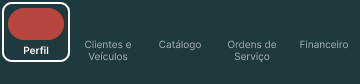
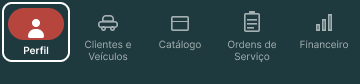
docs(f41): registrar recaptura dos frames, tabela de pares e corrigir icones da tab bar no figma
Frames 39:31 e 39:58 tinham os icones fora do frame (x negativo); corrigidos so no Figma. Divergencias novas (L-12 a L-16, B-01, D-04, F-01, P-09, P-10, T-08), contraste e decisoes 8 a 13 em F41-conferencia-paridade.md secao 12. README sem mudanca.

diff --git a/docs/design/F41-conferencia-paridade.md b/docs/design/F41-conferencia-paridade.md
@@ -1,6 +1,6 @@
 # F41 · Conferência de paridade Figma × código — Login, Perfil, diálogo de saída e tab bar
 
-Autor: ESQUADRO · Data: 2026-11-13 · Branch: `feat/f40-componentizacao-mobile` · Estado: **etapa 1 de 3 concluída; conferência incompleta (lado app sem capturas)**
+Autor: ESQUADRO · Data: 2026-11-13 · Branch: `feat/f40-componentizacao-mobile` · Estado: **etapa 2 de 4 concluída (seção 12); feature não fechada: decisões da pessoa e divergências reais de código em aberto. Atenção: a seção 12.5 corrige afirmações das seções 8 e 11.6 sobre variáveis do Figma.**
 
 ## 1. O que foi lido e o que não foi
 
@@ -240,3 +240,107 @@ Mesma fórmula da seção 5, sobre os hex dos tokens: pílula do selo (branco/pe
 ### 11.9 README
 
 README sem mudança: nenhuma instalação, comando, variável, porta ou funcionalidade mudou; só aparência de tela, testes e documentação.
+
+## 12. Rodada do ESQUADRO (2026-11-13): recaptura no Figma e tabela de pares contra as capturas de `fbfca93`
+
+Autor: ESQUADRO. Estado: **conferência feita nos estados que existem; feature NÃO fechada** (decisões da pessoa, estados sem captura e divergências reais de código em aberto).
+
+### 12.1 Acesso ao Figma (US-PAR-11)
+
+`mcp__figma-remote__whoami` respondeu: handle "Leticia Moraes", plano "Time Pessoal" (`team::1274094162661077353`). `create_session` no arquivo `DLqbSzzKRxiN2eyvXG73Lr` devolveu sessão. Sem bloqueio nesta sessão (a rodada do ORLA tinha sido negada; não é mais o caso).
+
+Recapturei os 12 frames por `get_screenshot` e comparei com `docs/design/f41-capturas/figma-*.png`: **os 12 têm o mesmo tamanho em bytes** e o hash do primeiro é idêntico, ou seja, os frames não mudaram desde a leitura anterior. Depois disso troquei só duas capturas, `figma-tabbar-padrao-39-31.png` e `figma-tabbar-foco-39-58.png`, porque corrigi os frames (12.4).
+
+### 12.2 Como medi (e o limite da medição)
+
+Não há Pillow nem ImageMagick no ambiente. Escrevi um leitor de PNG mínimo (`zlib`, sem biblioteca externa) em Python, **fora do repositório** (scratchpad), que lista as transições de cor ao longo de uma coluna ou linha. Medi o Figma a 360 de largura e o app a 402 pt de largura (1x). Margem: ±1 pt. As medidas de altura do app **incluem a área da barra de status** (plataforma), então só comparo distâncias entre elementos de dentro da tela. Não há diff automático nem montagem lado a lado em um arquivo: a comparação de cada par foi feita abrindo as duas imagens.
+
+### 12.3 Pares e estados (US-PAR-01, 02, 03)
+
+| Tela / estado | Frame | Captura do app | Situação |
+|---|---|---|---|
+| Login vazio | `29:2` | `app-login-vazio.png` (rota real) | Par feito |
+| Login carregando | `29:20` | `app-login-carregando.png` (rota temporária, só aparência) | Par feito; frame inconsistente (L-16) |
+| Login credencial inválida + campos vazios | `29:56` | `app-login-erro-validacao.png` (temporária) | Par feito. Não existe frame só de credencial inválida |
+| Login falha de conexão | `29:35` | `app-login-erro-rede.png` (temporária) | Par feito |
+| Login preenchido (foco no Entrar) | `29:79` | `app-login-preenchido.png` (temporária) | Par feito **sem o anel de foco** (não dá para forçar foco de fora) |
+| Perfil carregando | `33:2` | nenhuma | **Real**: estado não existe no código (P-07) |
+| Perfil erro | `33:14` | nenhuma | **Real**: estado não existe no código (P-08) |
+| Perfil preenchido (foco no Sair) | `33:33` | `app-perfil-preenchido.png` (temporária) | Par feito **sem foco**; o app mostra a tab bar, o frame não (P-10) |
+| Diálogo de saída | `33:49` | `app-perfil-confirmar-saida.png` (temporária) | Par feito |
+| Tab bar selecionado | `39:3` | faixa inferior de `app-perfil-preenchido.png` | Par feito |
+| Tab bar padrão | `39:31` | nenhuma | "Não se aplica na Sprint 01" **se a decisão 4 for aceita**; senão, real (T-06) |
+| Tab bar foco | `39:58` | nenhuma | **Sem captura**: foco só testado em componente |
+
+Tab bar: nos dois lados a ordem é Perfil, Clientes e Veículos, Catálogo, Ordens de Serviço, Financeiro, e os quatro últimos aparecem esmaecidos, com ícone e rótulo. Verificado nas imagens.
+
+### 12.4 Defeitos do próprio Figma achados nesta rodada
+
+| ID | Defeito | Ação |
+|---|---|---|
+| **T-09** | Em `39:31` e `39:58` os ícones dos cinco itens estavam com `x` negativo (`-392`, `-812` etc.): coordenada absoluta da página em vez da relativa ao frame. A captura mostrava a tab bar **sem nenhum ícone**. | **Corrigido por mim, só no Figma** (`use_figma`): somei o `x` do frame aos 10 nós (`39:34`, `39:40`, `39:44`, `39:51`, `39:56`, `39:62`, `39:69`, `39:73`, `39:80`, `39:85`). Agora ficam em x = 28, 98, 171, 244, 316, iguais a `39:3`. Conferido por `get_screenshot` e capturas trocadas. |
+| L-16 | `29:20` (carregando) tem "Senha", campo e botão **14 px mais abaixo** que `29:79` (rótulo y=238 contra 224; botão y=330 contra 316; confirmei no pixel). O formulário "pularia" ao entrar em carregando. | **Não alterei** (frame aprovado). Decisão 12. O código já segue `29:79`. |
+| P-09 | O divisor `33:42` é `#000000` (medi o pixel), reaproveita o mesmo SVG das linhas de legenda (`5d1a6.svg`) e **não está ligado a nenhuma variável**. O código usa petro. | Decisão 9. |
+| T-08 | Rótulo "Perfil" fica em y=44 no selecionado (`39:8`) e em y=38 no padrão (`39:35`); os outros quatro ficam em y=38. O código mantém todos alinhados. | Decisão 13. |
+
+### 12.5 Correção de afirmações anteriores (verificado hoje)
+
+1. **A coleção `28:3` não tem só cores.** `use_figma` (leitura) listou, além das 24 cores, as variáveis: cores `color/surface/errorTint` e `color/focus/ring-on-brand`; `font/size/{header,subtitle,labelSmall,field,heading,micro,tab}`; `font/weight/{header,subtitle,labelSmall,field,heading,micro,tab,tabSelected}`; `border/width/{field,emphasis}`; `space/{field,card}`; `size/tab/{itemHeight,pillWidth,pillHeight}`; `size/avatar`; `size/icon/action`. Os valores batem com `tokens.ts` (20, 13, 13, 15, 17, 11, 10; 1,25 e 1,5; 6 e 20; 64, 56, 32, 64, 22). **Não sei quem as criou nem quando**: os documentos da F40, da F41 (§8, §11.6) e do BUSSOLA diziam que não existiam. A premissa 3 está cumprida para esses tokens.
+2. **Faltam no Figma duas variáveis de cor que existem em `tokens.ts`:** `color/text/placeholder` e `color/border/divider`. Não as criei: o próprio Figma usa `text/secondary` no placeholder e `#000000` sem variável no divisor (decisões 8 e 9). Criar agora fixaria um valor que a decisão pode inverter.
+3. **Divisor do Perfil (`33:42`)**: a cor que o ORLA pediu para confirmar é `#000000`. O código usa petro (`border.divider`).
+4. **Avatar**: preenchimento `#1E3A3F` (petro), iniciais brancas. Igual ao código.
+5. **Botão Fechar (X)**: traço `#334155` (slate-700), 10,35:1 sobre branco.
+
+### 12.6 Divergências novas (somam-se às da seção 4)
+
+Padrão da premissa 1: **o código se ajusta ao Figma**. As marcadas "default" não precisam de decisão; o ORLA corrige.
+
+| ID | Real? | Figma | Código (medido ou lido) | Caminho |
+|---|---|---|---|---|
+| L-12 | Real | Placeholder em `text/secondary` slate-700, 15 (`29:8`, `29:11`): fica tão escuro quanto o valor | `text.placeholder` slate-500 (`tokens.ts:37`, `text-field.tsx:72`) | **Decisão 8** |
+| L-13 | Real | Valor digitado em `text/secondary` slate-700 (`29:85`, `29:88`) | `color.text.primary` petro (`text-field.tsx:128`) | default |
+| L-14 | Real | Campo com 48 de altura externa (`29:7`, `29:84`) | `minHeight` 48 + borda 1,25 dos dois lados = ~50 (medi 50 no app) | default |
+| B-01 | Real | Botão de página (Entrar, Sair) **52** de altura (`29:16`, `33:43`); botão de diálogo e popup **44** (`33:65`, `33:67`) | `minHeight` 48 em todos (`button.tsx:92`; medi 48 no app) | página: default. Diálogo 44: **decisão 10** |
+| L-15 | Real | Em carregando, o campo desabilitado **não tem olho** (`29:20`) | O olho continua (`app-login-carregando.png`) | default |
+| D-04 | Real | Diálogo e popup com 296 de largura (`33:62`; margem 32) | `dialogMaxWidth` 320 (`tokens.ts:142`; medi 320 no app) | default |
+| F-01 | Real, **sem captura** | Anel de foco: petro a 4–6 pt do controle, halo branco a 1–3, raio externo 14 (`29:95`, `29:96`) | Petro a 2–4 pt, halo a 0–2, raio 12 (`tokens.ts:109-116`) | default; confirmar em aparelho |
+| P-10 | Real (lacuna do Figma) | Nenhum frame mostra o Perfil **com** a tab bar | O app mostra o Perfil sobre a tab bar (F33) | **Decisão 11** |
+| L-11 (resto) | A confirmar | Do fim da faixa ao topo do primeiro campo: 50 (120→170) | 45 (137→182); a faixa do app inclui a área da barra de status | ORLA mede sem a área de status |
+
+Posições que **batem** (medidas): entre campo de e-mail e rótulo de senha (26 nos dois lados), campo de senha ao botão (24 nos dois lados), margens laterais de 16, cores de fundo da faixa, do botão e da borda do campo.
+
+### 12.7 Contraste dos pares novos (cálculo: mesma fórmula da seção 5, sobre os hex lidos)
+
+| Par | Razão | Mínimo | Resultado |
+|---|---|---|---|
+| slate-700 sobre branco (placeholder do Figma, valor do Figma, traço do X) | 10,35:1 | 4,5 / 3 | passa |
+| slate-500 sobre branco (placeholder do código) | 4,76:1 | 4,5 | passa, folga pequena |
+| petro sobre branco (valor no código) | 12,12:1 | 4,5 | passa |
+| iniciais brancas sobre avatar petro | 12,12:1 | 4,5 | passa |
+| `#000000` sobre branco (divisor do Figma) | 21:1 | 3 (não exigido, é decorativo) | passa |
+
+Não recalculei por script nesta rodada: reaproveitei a razão da seção 5 para os pares de mesmas cores. Nenhum par novo ficou abaixo de AA.
+
+### 12.8 Decisões que dependem da pessoa (somam-se às 1 a 7 da seção 7)
+
+| # | Pergunta | Minha recomendação |
+|---|---|---|
+| 8 | Placeholder: seguir o Figma (slate-700, igual ao valor) ou manter o código (slate-500)? | Manter o código e atualizar o Figma com a variável `color/text/placeholder`. Placeholder idêntico ao valor digitado confunde quem tem baixa visão ou dificuldade de leitura. |
+| 9 | Divisor do Perfil: ligar o Figma a uma variável (`color/border/divider` = petro) ou trocar o código para preto? | Ligar o Figma à variável petro. Preto puro está fora da paleta. |
+| 10 | Botões do diálogo e do popup com 44 de altura (Figma) ficam abaixo do `minTouchTarget` de 48 do projeto. Seguir o Figma? | Seguir o Figma: 44 passa o WCAG 2.2 AA (2.5.8, mínimo 24) e o mínimo do iOS (44). Só o Android recomenda 48. Registrar a exceção em `tokens.ts`. |
+| 11 | Criar no Figma um frame "Perfil com tab bar" (composição de `33:33` e `39:3`)? | Sim: adiciona frame, não altera os aprovados. |
+| 12 | `29:20` com 14 px de salto: corrigir o Figma para o mesmo layout de `29:79`? | Sim. |
+| 13 | Rótulo "Perfil" da tab bar: ajustar o Figma para o rótulo não mudar de altura entre selecionado e padrão (como no código)? | Sim. |
+
+### 12.9 O que esta rodada não fez
+
+- **Capturas do app no aparelho físico, protocolo de aparelho, tarefas 3 e 5**: continuam bloqueados pela dúvida 2 (da pessoa). Não toquei no simulador.
+- **Capturas do app de Perfil carregando, Perfil erro, foco e estado "Padrão"**: não existem no código ou não são forçáveis. Ver 12.3.
+- **Divergências do lado código (L-13, L-14, B-01 página, L-15, D-04, F-01)**: são do ORLA, não alterei código.
+- **Variáveis `color/text/placeholder` e `color/border/divider` e frame de composição do Perfil**: aguardam as decisões 8, 9 e 11.
+- **Instrução `get_figma_skill` não lida**: a ferramenta não está disponível nesta sessão (não consta na minha lista), então **não li as skills `figma-use` e `figma-design-to-code` exigidas antes de `use_figma` e `get_design_context`**. Para limitar o risco, fiz uma leitura somente antes de escrever e uma única escrita pequena, conferida por captura.
+- **US-PAR-08 não fecha**: há divergência real em aberto (esta seção e as seções 4 e 11.5).
+
+### 12.10 README
+
+README sem mudança: só documentação, capturas e edição de dois frames do Figma.

diff --git a/docs/design/figma.md b/docs/design/figma.md
@@ -434,7 +434,9 @@ desabilitado que fica para CRIVO, na seção 13 do documento de especificação.
 
 ### F41 · Conferência de paridade (2026-11-13, ESQUADRO)
 
-**Nenhum nó deste arquivo foi alterado na F41.** `whoami` respondeu sem bloqueio. Leitura (somente) das páginas `28:2` e `39:2` e dos frames `29:2`, `29:20`, `29:35`, `29:56`, `29:79`, `33:2`, `33:14`, `33:33`, `33:49`, `39:3`, `39:31`, `39:58`, com 12 capturas em `docs/design/f41-capturas/`. Lista de divergências (28 reais, 3 de plataforma), contraste e decisões pendentes da pessoa: `docs/design/F41-conferencia-paridade.md`. As capturas do app no aparelho não foram feitas (aparelho e ferramenta de toque indisponíveis). O Figma só será editado nas divergências que a pessoa decidir a favor do código (ex.: ícones da tab bar).
+**Rodada 2 (ESQUADRO, 2026-11-13): dois frames foram editados na F41, só no Figma.** Em `39:31` e `39:58` os ícones dos cinco itens estavam com `x` negativo (absoluto da página, fora do frame), então a tab bar saía sem ícone na captura. Somei o `x` do frame a 10 nós (`39:34`, `39:40`, `39:44`, `39:51`, `39:56`, `39:62`, `39:69`, `39:73`, `39:80`, `39:85`); agora x = 28, 98, 171, 244, 316, como em `39:3`. Nenhum outro nó foi alterado; nenhuma variável foi criada ou alterada. Na leitura da coleção `28:3` constam as variáveis numéricas (`font/*`, `border/width/*`, `space/*`, `size/*`) e as cores `color/surface/errorTint` e `color/focus/ring-on-brand`, que a rodada 1 dizia não existirem (autor e data desconhecidos). Faltam `color/text/placeholder` e `color/border/divider`, que aguardam decisão. Detalhes: `docs/design/F41-conferencia-paridade.md` §12.
+
+**Rodada 1 (ESQUADRO, 2026-11-13): nenhum nó foi alterado.** `whoami` respondeu sem bloqueio. Leitura (somente) das páginas `28:2` e `39:2` e dos frames `29:2`, `29:20`, `29:35`, `29:56`, `29:79`, `33:2`, `33:14`, `33:33`, `33:49`, `39:3`, `39:31`, `39:58`, com 12 capturas em `docs/design/f41-capturas/`. Lista de divergências (28 reais, 3 de plataforma), contraste e decisões pendentes da pessoa: `docs/design/F41-conferencia-paridade.md`. As capturas do app no aparelho não foram feitas (aparelho e ferramenta de toque indisponíveis). O Figma só será editado nas divergências que a pessoa decidir a favor do código (ex.: ícones da tab bar).
 
 ### F40 · Componentes base do app (2026-11-13, ESQUADRO)
 
